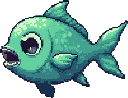
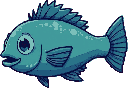
Fix struggle input and tighten gauge timing
1. Prevent accidental lock-on during struggle tap
   - Added lastStruggleEnd timestamp
   - tryAim() blocks new fish locks for 150ms after struggle ends
   - Prevents same tap event from locking next fish

2. Tighten gauge timing thresholds
   - CRIT: 0.07 → 0.05
   - GOOD: 0.18 → 0.12
   - POOR: 0.35 → 0.26
   - Makes successful catches require more precision

3. Regenerate aobudai with deeper blue coloring
   - Updated FAL prompt to emphasize blue over green
   - Clearer visual distinction from toxic parrotfish

Claude-Session: https://claude.ai/code/session_01FQUZMZhZch4yZidWXMWsqi

diff --git a/20_knowledge/魚突き/ゲーム企画/prototype/game.js b/20_knowledge/魚突き/ゲーム企画/prototype/game.js
@@ -9,7 +9,7 @@ const WORLD_H = 2000;              // 20m（1m = 100px）
 const PX_PER_M = 100;
 const O2_MAX = 60;                 // 秒
 const SPEAR_RANGE = 85;
-const CRIT = 0.07, GOOD = 0.18, POOR = 0.35; // ゲージ中央からの距離（標準時）
+const CRIT = 0.05, GOOD = 0.12, POOR = 0.26; // ゲージ中央からの距離（標準時）
 
 // 海況＝プレイヤーが選ぶ難易度（企画書 §5）
 const MODES = {
@@ -268,6 +268,7 @@ let sprites = {};
 let state, diver, fishes, rocks, weeds, bubbles, popups;
 let oxygen, bag, cuteBonus, cam, camX, tGame, aim, struggle, resultData, catchCut;
 let hintShown, quote, careWord;
+let lastStruggleEnd = 0;
 let highScore = Number(localStorage.getItem("isomoguri_hs") || 0);
 let dex = JSON.parse(localStorage.getItem("isomoguri_dex") || "{}"); // { fishId: { caught: N, seen: N } }
 
@@ -452,6 +453,7 @@ function nearestFish() {
   return best;
 }
 function tryAim() {
+  if (performance.now() - lastStruggleEnd < 150) return;
   const f = nearestFish();
   if (!f) return;
   aim = { target: f, t: 0 };
@@ -510,6 +512,7 @@ function struggleTap() {
     sfx.keep();
     catchCut = { id: f.id, sp: f.sp, t: 1.5, dur: 1.5, crit: false };
     struggle = null; state = "dive";
+    lastStruggleEnd = performance.now();
   }
 }
 function flee(f, mult) {

diff --git a/20_knowledge/魚突き/ゲーム企画/prototype/assets_pipeline/generate.py b/20_knowledge/魚突き/ゲーム企画/prototype/assets_pipeline/generate.py
@@ -58,7 +58,7 @@ SPRITES = {
     "hirame":  ("flounder (hirame), flat bottom-dwelling fish with both eyes on one side, mottled brown coloring", 36),
     "kawahagi": ("filefish (kawahagi), small yellowish fish with papillae texture, cute small mouth, streamlined", 24),
     "takanohadai": ("false snapper (takanohadai), silvery grey fish with black bands, small mouth, unremarkable", 32),
-    "aobudai": ("Japanese parrotfish (aobudai), greenish-blue fish with rounded mouth, venomous spines", 32),
+    "aobudai": ("Japanese parrotfish (aobudai), deep blue-green fish with rounded mouth, venomous spines, mostly blue coloring", 32),
     "madai":   ("red seabream (madai), striking red and white fish with elegant red stripes, beautiful fins, treasure fish", 38),
 }
 
